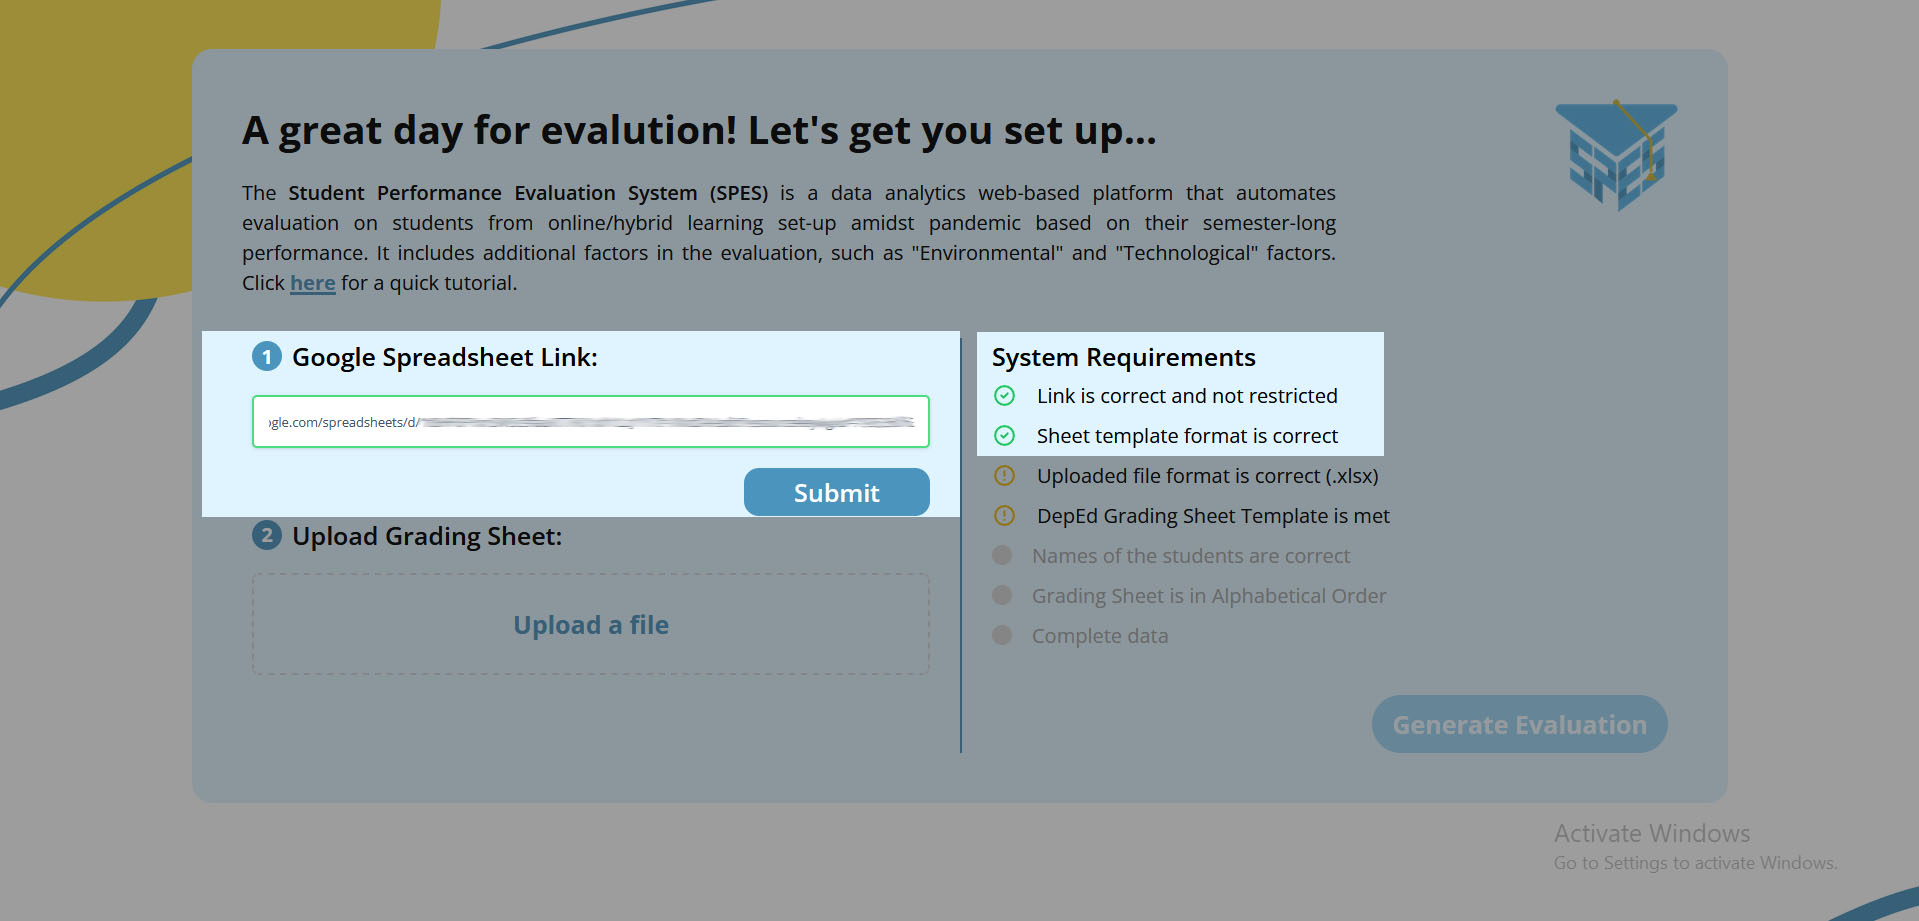
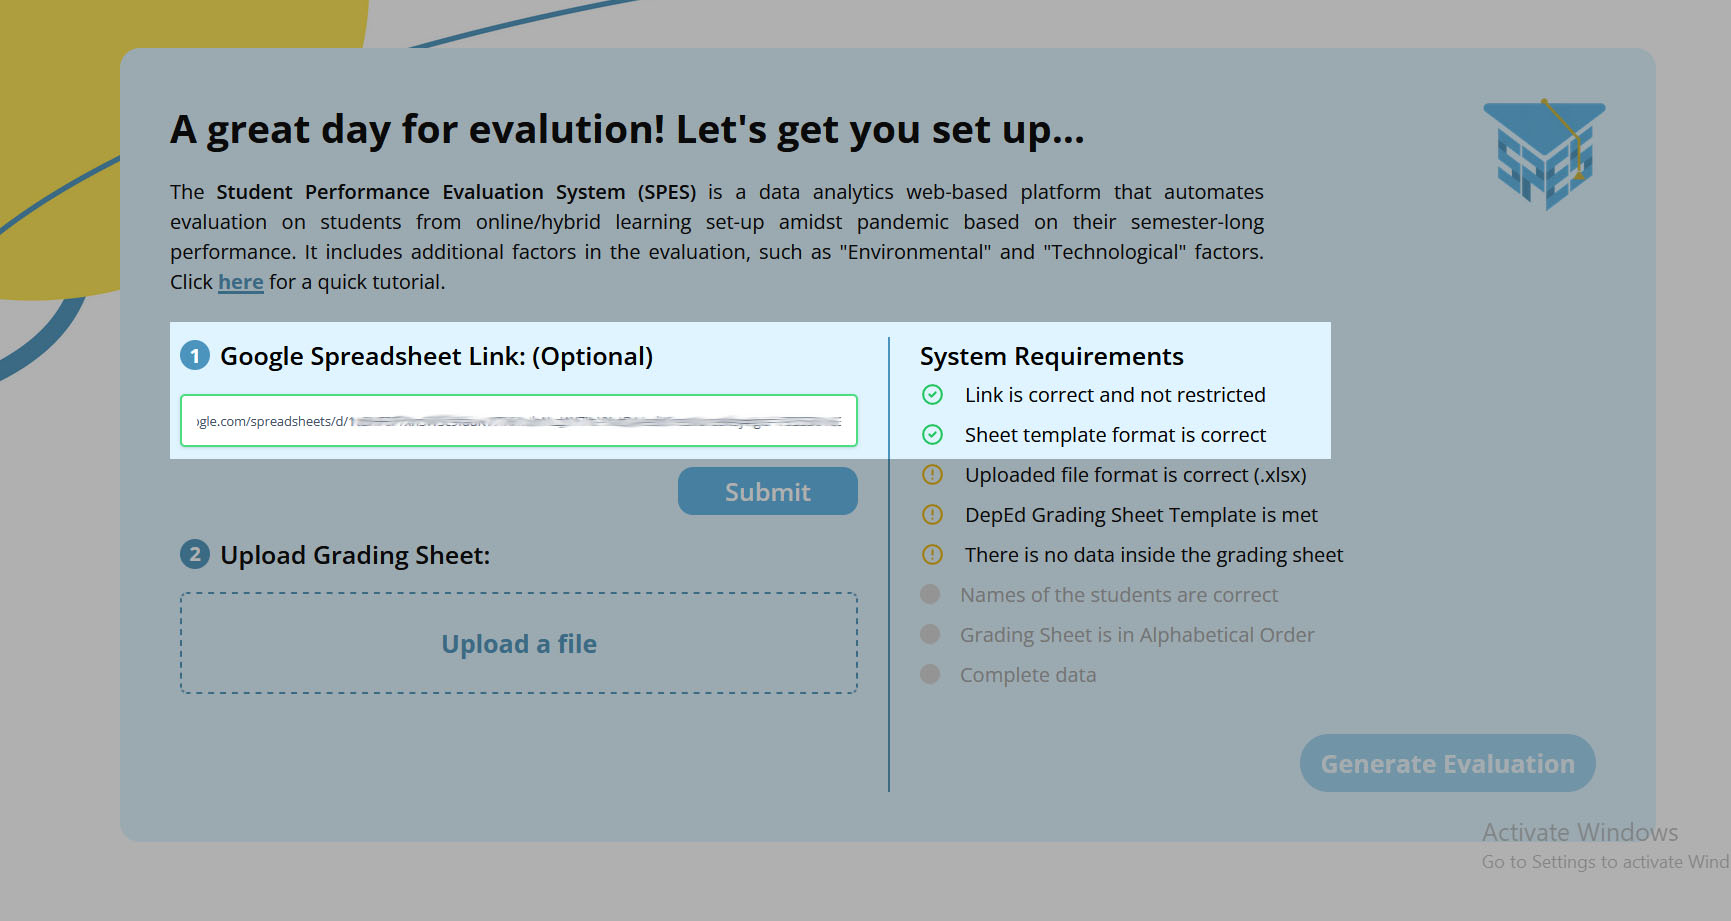
added tutorials

diff --git a/components/dialogs/StudentDialog.tsx b/components/dialogs/StudentDialog.tsx
@@ -263,7 +263,7 @@ const StudentDialog = ({
                 >
                   <Dialog.Panel className="w-fit h-fit transform overflow-hidden rounded-2xl bg-white p-10 text-left align-middle shadow-xl transition-all">
                     {dialog === "student info" ? (
-                      <div className="max-w-5xl">
+                      <div className="lg:max-w-3xl xl:max-w-5xl">
                         <div className="grid grid-cols-2">
                           <div className="col-span-1 flex gap-4">
                             <span
@@ -275,7 +275,7 @@ const StudentDialog = ({
                                   : "bg-yellow-200"
                               )}
                             >
-                              <h1 className="font-bold text-xl">
+                              <h1 className="font-bold lg:text-lg xl:text-xl">
                                 {student?.quarter![quarter].grade_before}
                               </h1>
                             </span>
@@ -302,7 +302,7 @@ const StudentDialog = ({
                             <div>
                               <Dialog.Title
                                 as="h1"
-                                className="flex justify-end text-2xl font-semibold leading-6 text-gray-900 w-full mb-2"
+                                className="flex justify-end lg:text-xl xl:text-2xl font-semibold leading-6 text-gray-900 w-full mb-2"
                               >
                                 {formatName(
                                   student ? student.name : "No Student Found"
@@ -314,7 +314,7 @@ const StudentDialog = ({
                             </div>
                           </div>
                         </div>
-                        <div className="grid grid-cols-2 mt-2 h-72">
+                        <div className="grid grid-cols-2 mt-2 h-72 gap-3">
                           <div className="overflow-auto">
                             <h4 className="pl-6 font-semibold">{category}</h4>
                             <Line
@@ -345,7 +345,7 @@ const StudentDialog = ({
                             <div className="h-10 flex gap-2">
                               <span
                                 className={classNames(
-                                  "w-fit  p-2 flex justify-center items-center rounded-full font-semibold",
+                                  "w-fit p-2 flex justify-center items-center rounded-full font-semibold",
                                   getRemarks(
                                     getGrade(
                                       category === "Over All"
@@ -398,7 +398,7 @@ const StudentDialog = ({
                                 </span>
                               )}
                             </div>
-                            <p className="inline-block text-justify">
+                            <p className="inline-block text-justify lg:text-[0.8rem] xl:text-base">
                               {performanceAnalysis(
                                 student!,
                                 quarter,

diff --git a/components/sections/Intro.tsx b/components/sections/Intro.tsx
@@ -3,10 +3,23 @@ import React, { useState } from "react";
 import { classNames } from "../../lib/functions/concat";
 
 const msg = [
-  "Survey Requirement",
-  "Paste Google Spreadsheet",
+  "Survey Requirement (Optional)",
+  "Paste Google Spreadsheet Link (Optional)",
   "Upload Grading Sheet File",
   "Generate Evaluation",
+];
+
+const tuts = [
+  [
+    [
+      "Data gathering is pre-conducted, if you wish to know what are the external elements that are a affecting your students' performance and let SPES use this vital information to automate a much accurate evaluation and suggest grade adjustments, please contact us here:",
+    ],
+    ["franzarvae.ignacio@tup.edu.ph"],
+    ["and we'll help you conduct data gathering."],
+  ],
+  "Paste the copied link in the Google Spreadsheet Link input box. Make sure that link is permitted by SPES.",
+  "Uploading grading sheets can be done with or without the google spreadsheets link. Just upload the grading sheet by clicking the upload file button and make sure to select a workbook file (.xlsx) that follows DepEd format. Reminder: Uploading a blank record is not permitted.",
+  "This should be what you'll see in order to proceed with the evaluation. If you encounter any error or having a hard time please click here.",
 ];
 
 const Intro = ({
@@ -47,13 +60,15 @@ const Intro = ({
                 layout="fill"
               />
             </div>
-            <p className="text-justify mt-5">
-              Paragraph (Large) Lorem ipsum dolor sit amet, consectetuer
-              adipiscing elit, sed diam nonummy nibh euismod tincidunt ut
-              laoreet dolore magna. Lorem ipsum dolor sit amet, consectetuer
-              adipiscing elit, sed diam nonummy nibh euismod tincidunt ut
-              laoreet dolore magna.
-            </p>
+            {page === 0 ? (
+              <p className="text-justify mt-5">
+                {tuts[0][0]}{" "}
+                <span className="underline decoration-2">{tuts[0][1]}</span>{" "}
+                {tuts[0][2]}
+              </p>
+            ) : (
+              <p className="text-justify mt-5">{tuts[page]}</p>
+            )}
             <div className="grid grid-cols-3 mt-4">
               <div className="text-lg">
                 <button

diff --git a/pages/dashboard.tsx b/pages/dashboard.tsx
@@ -308,14 +308,19 @@ const Dashboard = () => {
         <>
           <div className="m-4">
             <div className="w-full flex justify-between px-12">
-              <div className="flex justify-center items-center">
+              <div className="flex flex-col justify-center">
                 {" "}
                 <h2 className="text-xl xl:text-2xl font-bold">
-                  Students' Performance Evaluation System
+                  Student Performance Evaluation System
                 </h2>
+                <Link href="/getting-started" passHref>
+                  <button className="border-2 border-neutral-400 w-60 py-3 px-2 text-semibold bg-white hover:bg-ocean-100 hover:border-ocean-100 ">
+                    Generate new evaluation
+                  </button>
+                </Link>
               </div>
               <div className="w-20 h-20 xl:w-40 xl:h-40 p-2">
-                <Link href={`/getting-started`} passHref>
+                <Link href={`/`} passHref>
                   <div className="w-fit h-fit cursor-pointer">
                     <Image
                       src="/logo.png"

diff --git a/pages/getting-started.tsx b/pages/getting-started.tsx
@@ -42,8 +42,6 @@ import { useRouter } from "next/router";
 const INITIAL_MESSAGE =
   "An error message will appear here if there is problem with your file";
 
-let errors: number[] = [0, 0, 0, 0, 0, -1, -1, -1];
-
 const gettingStarted = (user: any) => {
   const { students, setStudents } = useClassroom();
   const { setJsonFile } = useJson();
@@ -55,7 +53,7 @@ const gettingStarted = (user: any) => {
   const [error, setError] = useState<any>(null);
   const router = useRouter();
   const [hasData, setData] = useState<boolean>(false);
-
+  const [errors] = useState<number[]>([0, 0, 0, 0, 0, -1, -1, -1]);
   // useEffect(() => {
   //   console.log(user);
   //   if (!user.user) {

diff --git a/components/tutorials/ClassTable.tsx b/components/tutorials/ClassTable.tsx
@@ -12,8 +12,17 @@ const ClassTable = () => {
 
   return (
     <div>
-      <div>{tutorial_msg[step]}</div>
-      <div className="w-full h-80 border"></div>
+      <div>
+        {step + 1}: {tutorial_msg[step]}
+      </div>
+      <div
+        className={classNames(
+          "w-full h-96 border",
+          step === 0
+            ? "bg-[url('/selectstudent.jpg')] bg-cover"
+            : "bg-[url('/sort.jpg')] bg-cover"
+        )}
+      ></div>
       <div className="grid grid-cols-3 mt-2">
         <p
           onClick={() => {
